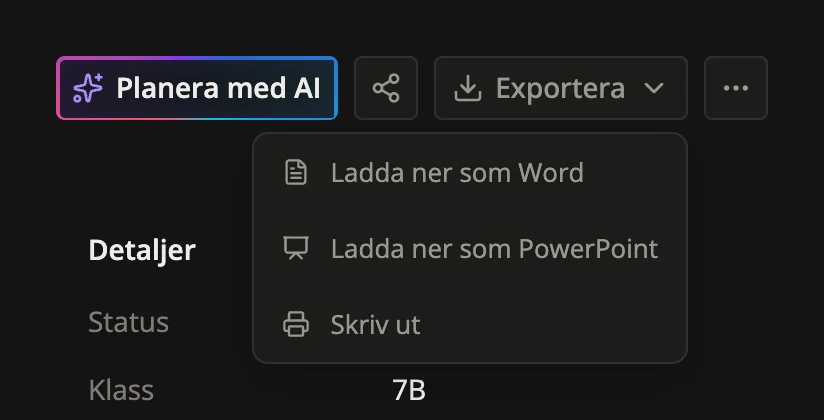
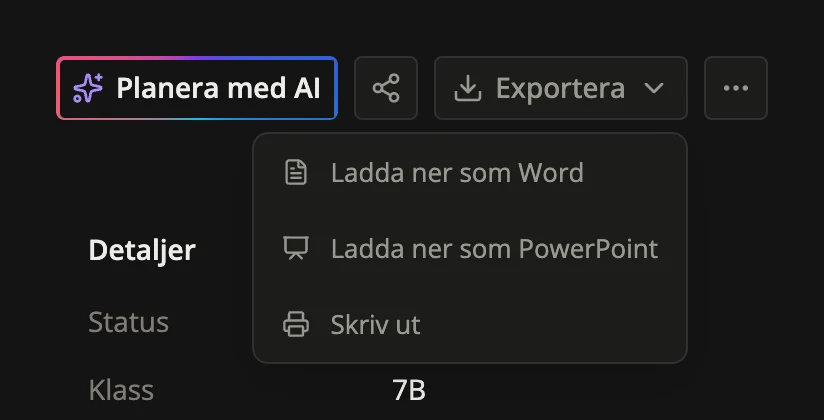
Planera med AI: still frame, no background
The rainbow frame no longer spins or shimmers, and the button has no
background tint; hover uses the normal hover colour.

Changed region(s): [[0.0607, 0.1238, 0.4248, 0.3095]]

diff --git a/styles.css b/styles.css
@@ -1643,17 +1643,14 @@ body.is-personal-project .aside-group[data-aside-group="teams"] { display: none;
 .status-btn.status-btn-sm { height: 24px; padding: 0 6px 0 8px; gap: 4px; font-size: var(--font-size-sm); font-weight: 600; }
 .status-btn.status-btn-sm svg { width: 13px; height: 13px; }
 
-/* Planera med AI i uppläggshuvudet: samma "magiska" uttryck som en rad i
-   Centralt innehåll när den redigeras – regnbågsram som sakta snurrar,
-   svag ton i bakgrunden och en ljusglimt när man pekar på knappen. */
+/* Planera med AI i uppläggshuvudet: samma regnbågsram som en rad i Centralt
+   innehåll när den redigeras, men stilla och utan bakgrundston */
 .ai-continue-btn {
   position: relative;
   isolation: isolate;
-  overflow: hidden;
   border: none;
   color: var(--color-text-primary);
-  background: linear-gradient(90deg, rgba(124, 58, 237, 0.10), rgba(41, 102, 206, 0.08) 50%, rgba(18, 194, 233, 0.10));
-  box-shadow: inset 0 0 12px rgba(124, 58, 237, 0.14);
+  background: none;
   font-weight: 600;
 }
 .ai-continue-btn svg { color: #7c3aed; }
@@ -1664,32 +1661,15 @@ body.is-personal-project .aside-group[data-aside-group="teams"] { display: none;
   z-index: -1;
   padding: 1.5px;
   border-radius: inherit;
-  background: conic-gradient(from var(--magic-angle), #7c3aed, #2966ce, #12c2e9, #f5576c, #7c3aed);
+  background: conic-gradient(from 0deg, #7c3aed, #2966ce, #12c2e9, #f5576c, #7c3aed);
   -webkit-mask: linear-gradient(#000 0 0) content-box, linear-gradient(#000 0 0);
   -webkit-mask-composite: xor;
   mask: linear-gradient(#000 0 0) content-box exclude, linear-gradient(#000 0 0);
-  animation: magic-spin 4s linear infinite;
   pointer-events: none;
 }
-.ai-continue-btn::after {
-  content: '';
-  position: absolute;
-  inset: 0;
-  background: linear-gradient(100deg, transparent 30%, rgba(255, 255, 255, 0.55) 50%, transparent 70%);
-  transform: translateX(-100%);
-  pointer-events: none;
-}
-.ai-continue-btn:hover {
-  background: linear-gradient(90deg, rgba(124, 58, 237, 0.16), rgba(41, 102, 206, 0.12) 50%, rgba(18, 194, 233, 0.16));
-}
-.ai-continue-btn:hover::after { animation: magic-shimmer 0.9s ease-out 1 forwards; }
+.ai-continue-btn:hover { background: var(--color-bg-hover); }
 .ai-continue-btn:focus-visible { outline: 2px solid var(--color-primary); outline-offset: 2px; }
-[data-theme="dark"] .ai-continue-btn::after { background: linear-gradient(100deg, transparent 30%, rgba(255, 255, 255, 0.12) 50%, transparent 70%); }
 [data-theme="dark"] .ai-continue-btn svg { color: #a78bfa; }
-@media (prefers-reduced-motion: reduce) {
-  .ai-continue-btn::before { animation: none; }
-  .ai-continue-btn:hover::after { animation: none; }
-}
 
 /* Share popover: email input + send */
 .share-popover-body {

diff --git a/docs/handoff.md b/docs/handoff.md
@@ -56,7 +56,7 @@ Efter (3): skapa en kod på **Admin → Koder** för att testa onboardingen live
 - **Klasser tillhör projektet:** `projects.classes` (+ RPC `add_project_class`/`remove_project_class`). Detaljer › Klass visar bara projektets lista (när den finns), så en borttagen klass kommer inte tillbaka via gamla upplägg.
 - **Årskurs** är välj-eller-skriv som Ämne (förslag F–9, egna i profilen, `normalizeGrade`/`gradeLabel` i theme.js).
 - **Kalender:** Mina / Alla i projektet, klassfilter, Prov/Inlämning-etiketter, kollegors lektioner grå och skrivskyddade, varning när en klass har ≥ 3 prov + inlämningar samma vecka (`LOAD_WARNING_AT` i calendar.html; räknar alla lärares inlagda lektioner hela veckan; klassen kommer från uppläggets Klass). Lektioner markeras som Prov/Inlämning i lektionens ⋯-meny (`data-assessment` på `.lesson-group`, `LESSON_ASSESSMENTS` i schedule.js). Kommande i sidopanelen/översikten = bara egna.
-- **Planera med AI** (2026-10-25, hette Fyll i med AI och låg i ⋯-menyn): knapp först i uppläggshuvudet med "magisk" ram (`.ai-continue-btn`). Instruktionen gör AI:n till bollplank: utgår från allt i upplägget, sammanfattar, pekar på luckor och ger 2–3 förslag innan den frågar läraren (`buildFillPrompt` i ai-import.js). **Status** ligger nu under Detaljer (`.status-btn-sm`). Första tipset i upplägget visar knappen.
+- **Planera med AI** (2026-10-25, hette Fyll i med AI och låg i ⋯-menyn): knapp först i uppläggshuvudet med stilla regnbågsram utan bakgrund (`.ai-continue-btn`). Instruktionen gör AI:n till bollplank: utgår från allt i upplägget, sammanfattar, pekar på luckor och ger 2–3 förslag innan den frågar läraren (`buildFillPrompt` i ai-import.js). **Status** ligger nu under Detaljer (`.status-btn-sm`). Första tipset i upplägget visar knappen.
 - **Uppläggssidan:** lektioner/aktiviteter, dra och släpp, fäll ihop, export Word/PowerPoint, brödsmulor, "Hämtar upplägget…" medan det laddas. **Aktivitetspanelen** svävar (12 px luft, 16 px hörn, skugga, ingen blur) med Ta bort / Avbryt / Spara i en fast rad i botten. Centralt innehåll/Betygskriterier: Enter sparar raden, tom rad tas bort, "magisk" ram när raden redigeras. Sektionsrubriker som sidopanelens grupper (rubriken är klickytan, pil vid hovring).
 - **Filer:** bilder som miniatyr (stor i aktivitetspanelen); klick öppnar förhandsvisning i Lossi (bild, PDF, text; Office → Ladda ner); PowerPoint-exporten lägger in aktivitetens bilder (högst 4).
 - **Marknadsplats:** `marknadsplats.html` är en teaser (knappen öppnar feedback).
